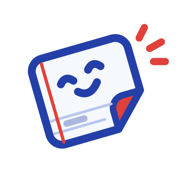
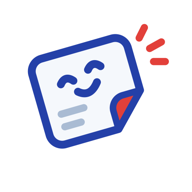
Mascotte simplifiée (version brand book) + rafraîchissement du cache PWA
- Retire la réglure et la marge rouge à l'intérieur de la mascotte :
  papier simple avec deux lignes gris-bleu, comme dans le brand book
- Favicon et icônes d'app régénérés
- Service worker : cache smb-v1 -> smb-v2, pour que les utilisateurs
  existants reçoivent les nouvelles icônes (les .png sont servis cache d'abord)

Changed region(s): [[0.1875, 0.3125, 0.5938, 0.75]]

diff --git a/src/components/Mascotte.tsx b/src/components/Mascotte.tsx
@@ -5,7 +5,7 @@ export type PoseMascotte = "sourire" | "clin-oeil" | "bravo" | "reflechir";
 const ENCRE = "#2440a8";
 const ROUGE = "#e2403a";
 
-/** Le bulletin-mascotte, dessiné comme une page de cahier Seyès. */
+/** Le bulletin-mascotte du brand book (papier, coin replié, deux lignes de texte). */
 export function Mascotte({
   pose = "sourire",
   taille = 40,
@@ -65,9 +65,7 @@ export function Mascotte({
         <path d="M94 62L70 86V72a10 10 0 0 1 10-10z" fill={ROUGE} strokeWidth={5} />
         {yeux}
         {bouche}
-        <path d="M22 66h48M22 76h40" stroke="#b9c6ee" strokeWidth={2} />
-        <path d="M27 22v62" stroke={ROUGE} strokeWidth={2.5} />
-        <path d="M33 71h14" strokeWidth={5} opacity={0.35} />
+        <path d="M31 63h18M31 73h13" stroke="#A9BBD3" strokeWidth={5.5} />
       </g>
       <g stroke={ROUGE} strokeWidth={5.5} strokeLinecap="round">
         <path d="M93 12l4-8M101 20l9-5M104 30h9" />

diff --git a/public/sw.js b/public/sw.js
@@ -4,7 +4,7 @@
  * - Pages : réseau d'abord, avec repli sur le cache si hors ligne.
  * - Les appels /api ne sont jamais interceptés (connexion, scores, tuteur…).
  */
-const CACHE = "smb-v1";
+const CACHE = "smb-v2"; // à incrémenter quand des fichiers non versionnés changent (icônes…)
 const PRECACHE = ["/", "/icon-192.png", "/icon-512.png"];
 
 self.addEventListener("install", (event) => {
